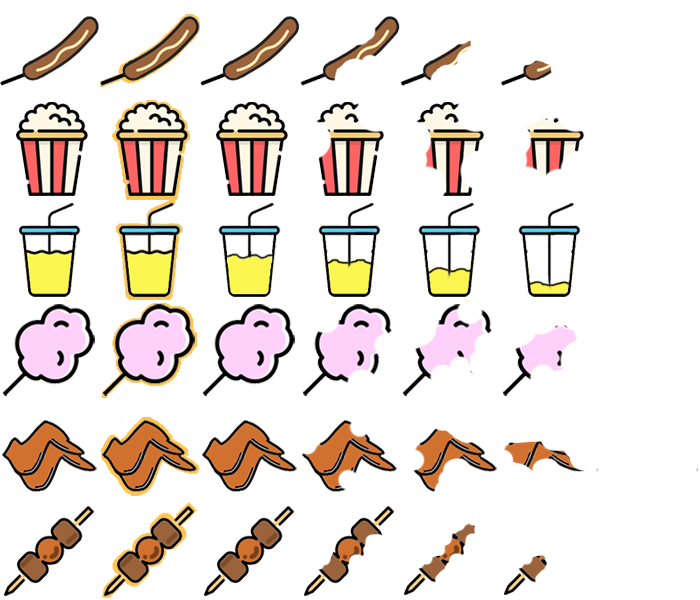
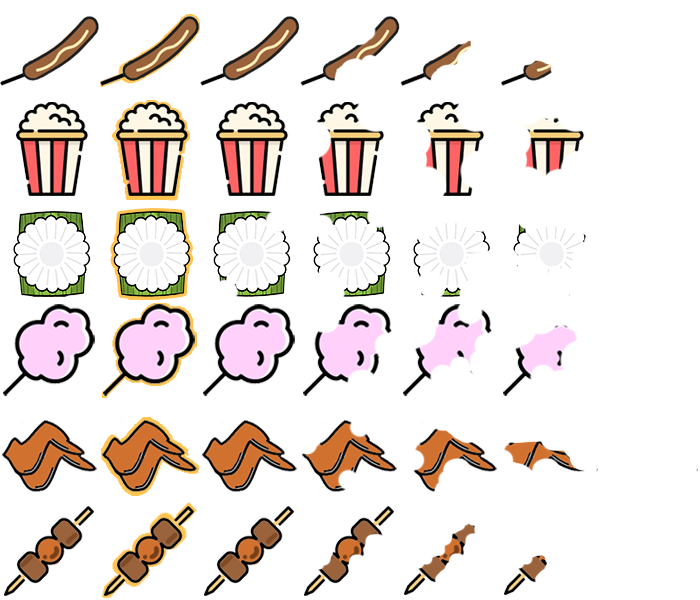
Add files via upload

Changed region(s): [[0.0, 0.33, 0.42, 0.51], [0.45, 0.33, 0.84, 0.51]]

diff --git a/foodStore.js b/foodStore.js
@@ -10,7 +10,7 @@ class FoodStoreScene extends Phaser.Scene {
     // declare this choices array first!
     this.foodItemChoices = [];
     this.foodItemSprites = [];
-    this.foodItemVoiceOverSFXTable = ["Eat_Sausage_SFX", "Eat_Popcorn_SFX", "Eat_Drink_SFX", 
+    this.foodItemVoiceOverSFXTable = ["Eat_Sausage_SFX", "Eat_Popcorn_SFX", "Eat_TutuKueh_SFX", 
                                       "Eat_CandyFloss_SFX", "Eat_ChickenWing_SFX", "Eat_SkeweredMeat_SFX"];
 
     // Create food Store BG
@@ -265,15 +265,8 @@ class FoodStoreScene extends Phaser.Scene {
     if (gameObject.foodItemID == this.customerChoice) {
 
       this.sound.play('Correct_SFX');
-
-      // hard coded for drinks
-      if (gameObject.foodItemID == 2) {
-        this.sound.play('Drink_SFX');
-      }
-      else {
-        this.sound.play('Eat_SFX');
-      }
-
+      this.sound.play('Eat_SFX');
+  
       gameObject.play(gameObject.eatenAnim);
       gameObject.disableInteractive();
       gameObject.eatenFlag = true;

diff --git a/loading.js b/loading.js
@@ -107,7 +107,7 @@ class LoadingScene extends Phaser.Scene {
     this.load.audio('RingTossBottle_SFX', 'assets/Audio/RingTossBottle.wav');
     this.load.audio('Eat_Sausage_SFX', 'assets/Audio/Eat_Sausage.mp3');
     this.load.audio('Eat_Popcorn_SFX', 'assets/Audio/Eat_Popcorn.mp3');
-    this.load.audio('Eat_Drink_SFX', 'assets/Audio/Eat_Drink.mp3');
+    this.load.audio('Eat_TutuKueh_SFX', 'assets/Audio/Eat_TutuKueh.mp3');
     this.load.audio('Eat_CandyFloss_SFX', 'assets/Audio/Eat_CandyFloss.mp3');
     this.load.audio('Eat_ChickenWing_SFX', 'assets/Audio/Eat_ChickenWing.mp3');
     this.load.audio('Eat_SkeweredMeat_SFX', 'assets/Audio/Eat_SkeweredMeat.mp3');
